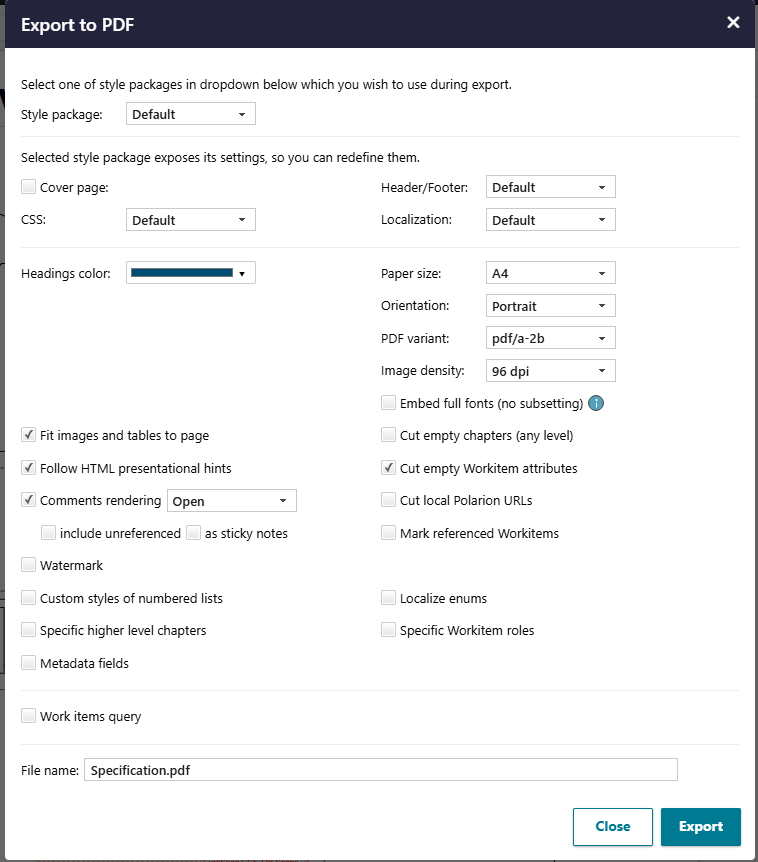
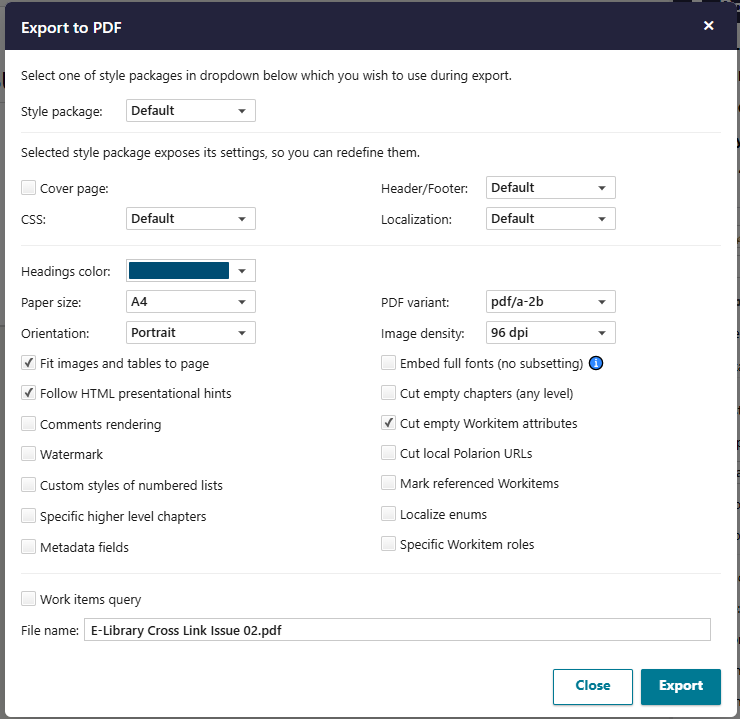
chore: style packages page layout improvements

diff --git a/ui/src/pages/StylePackages.tsx b/ui/src/pages/StylePackages.tsx
@@ -599,18 +599,22 @@ export default function StylePackages() {
           </div>
         )}
 
-        {/* How the page itself is printed. */}
+        {/* How the page is printed, what the renderer does with the content and the switches carrying a
+            value of their own: one container with two continuous columns, not three stacked ones. A flex
+            row is as tall as its taller column, so while these were three containers a short column could
+            never be filled from the block below it - "Headings color" alone on the left against five rows
+            on the right left a four-row hole under it. The colour picker now takes a line of its own above
+            the columns, which is what lets the four dropdowns line up as a block. Same arrangement, and
+            the same reasoning, as the export dialog: see ui/src/popup/ExportPopupModal.tsx. */}
         <div className="flex-container section">
-          <div className="flex-column">
-            <div className="input-group">
-              <label htmlFor="headers-color">Headings color:</label>
-              <input
-                id="headers-color"
-                type="color"
-                value={form.headersColor}
-                onChange={(e) => patch({ headersColor: e.target.value })}
-              />
-            </div>
+          <div className="input-group full-row">
+            <label htmlFor="headers-color">Headings color:</label>
+            <input
+              id="headers-color"
+              type="color"
+              value={form.headersColor}
+              onChange={(e) => patch({ headersColor: e.target.value })}
+            />
           </div>
           <div className="flex-column">
             <div className="input-group">
@@ -631,44 +635,6 @@ export default function StylePackages() {
                 onChange={(value) => patch({ orientation: value })}
               />
             </div>
-            <div className="input-group">
-              <label htmlFor="pdf-variant-select">PDF Variant:</label>
-              <SearchableSelect
-                id="pdf-variant-select"
-                options={PDF_VARIANTS}
-                value={form.pdfVariant}
-                onChange={(value) => patch({ pdfVariant: value })}
-              />
-            </div>
-            <div className="input-group">
-              <label htmlFor="image-density-select">Image density:</label>
-              <SearchableSelect
-                id="image-density-select"
-                options={IMAGE_DENSITIES}
-                value={form.imageDensity}
-                onChange={(value) => patch({ imageDensity: value })}
-              />
-            </div>
-            {/* `flex-centered` for the same reason the weight and query rows have it: it is what centers
-                the info icon against the text next to it. */}
-            <div className="checkbox input-group flex-centered">
-              <label htmlFor="full-fonts">
-                <input
-                  id="full-fonts"
-                  type="checkbox"
-                  checked={form.fullFonts}
-                  onChange={(e) => patch({ fullFonts: e.target.checked })}
-                />
-                Embed full fonts (no subsetting)
-              </label>
-              <span className="more-info" title={FULL_FONTS_HELP} />
-            </div>
-          </div>
-        </div>
-
-        {/* What the renderer does with the content. */}
-        <div className="flex-container">
-          <div className="flex-column">
             <div className="checkbox input-group">
               <label htmlFor="fit-to-page">
                 <input
@@ -746,58 +712,7 @@ export default function StylePackages() {
                 Watermark
               </label>
             </div>
-          </div>
-          <div className="flex-column">
-            <div className="checkbox input-group">
-              <label htmlFor="cut-empty-chapters">
-                <input
-                  id="cut-empty-chapters"
-                  type="checkbox"
-                  checked={form.cutEmptyChapters}
-                  onChange={(e) => patch({ cutEmptyChapters: e.target.checked })}
-                />
-                Cut empty chapters (any level)
-              </label>
-            </div>
-            <div className="checkbox input-group">
-              <label htmlFor="cut-empty-wi-attributes">
-                <input
-                  id="cut-empty-wi-attributes"
-                  type="checkbox"
-                  checked={form.cutEmptyWorkitemAttributes}
-                  onChange={(e) => patch({ cutEmptyWorkitemAttributes: e.target.checked })}
-                />
-                Cut empty Workitem attributes
-              </label>
-            </div>
-            <div className="checkbox input-group">
-              <label htmlFor="cut-urls">
-                <input
-                  id="cut-urls"
-                  type="checkbox"
-                  checked={form.cutLocalURLs}
-                  onChange={(e) => patch({ cutLocalURLs: e.target.checked })}
-                />
-                Cut local Polarion URLs
-              </label>
-            </div>
-            <div className="checkbox input-group">
-              <label htmlFor="mark-referenced-workitems">
-                <input
-                  id="mark-referenced-workitems"
-                  type="checkbox"
-                  checked={form.markReferencedWorkitems}
-                  onChange={(e) => patch({ markReferencedWorkitems: e.target.checked })}
-                />
-                Mark referenced Workitems
-              </label>
-            </div>
-          </div>
-        </div>
-
-        {/* Switches that carry a value of their own. */}
-        <div className="flex-container">
-          <div className="flex-column">
+            {/* Switches that carry a value of their own. */}
             <div className="checkbox input-group with-value">
               <label htmlFor="custom-list-styles">
                 <input
@@ -859,7 +774,9 @@ export default function StylePackages() {
               />
             </div>
             <div className="input-group with-value">
-              <label htmlFor="language-custom-field">Document Language custom field</label>
+              <label htmlFor="language-custom-field" className="nowrap">
+                Document Language custom field
+              </label>
               <span className="more-info" title={LANGUAGE_CUSTOM_FIELD_HELP} />
               <input
                 id="language-custom-field"
@@ -872,6 +789,82 @@ export default function StylePackages() {
             </div>
           </div>
           <div className="flex-column">
+            <div className="input-group">
+              <label htmlFor="pdf-variant-select">PDF Variant:</label>
+              <SearchableSelect
+                id="pdf-variant-select"
+                options={PDF_VARIANTS}
+                value={form.pdfVariant}
+                onChange={(value) => patch({ pdfVariant: value })}
+              />
+            </div>
+            <div className="input-group">
+              <label htmlFor="image-density-select">Image density:</label>
+              <SearchableSelect
+                id="image-density-select"
+                options={IMAGE_DENSITIES}
+                value={form.imageDensity}
+                onChange={(value) => patch({ imageDensity: value })}
+              />
+            </div>
+            {/* `flex-centered` for the same reason the weight and query rows have it: it is what centers
+                the info icon against the text next to it. */}
+            <div className="checkbox input-group flex-centered">
+              <label htmlFor="full-fonts">
+                <input
+                  id="full-fonts"
+                  type="checkbox"
+                  checked={form.fullFonts}
+                  onChange={(e) => patch({ fullFonts: e.target.checked })}
+                />
+                Embed full fonts (no subsetting)
+              </label>
+              <span className="more-info" title={FULL_FONTS_HELP} />
+            </div>
+            <div className="checkbox input-group">
+              <label htmlFor="cut-empty-chapters">
+                <input
+                  id="cut-empty-chapters"
+                  type="checkbox"
+                  checked={form.cutEmptyChapters}
+                  onChange={(e) => patch({ cutEmptyChapters: e.target.checked })}
+                />
+                Cut empty chapters (any level)
+              </label>
+            </div>
+            <div className="checkbox input-group">
+              <label htmlFor="cut-empty-wi-attributes">
+                <input
+                  id="cut-empty-wi-attributes"
+                  type="checkbox"
+                  checked={form.cutEmptyWorkitemAttributes}
+                  onChange={(e) => patch({ cutEmptyWorkitemAttributes: e.target.checked })}
+                />
+                Cut empty Workitem attributes
+              </label>
+            </div>
+            <div className="checkbox input-group">
+              <label htmlFor="cut-urls">
+                <input
+                  id="cut-urls"
+                  type="checkbox"
+                  checked={form.cutLocalURLs}
+                  onChange={(e) => patch({ cutLocalURLs: e.target.checked })}
+                />
+                Cut local Polarion URLs
+              </label>
+            </div>
+            <div className="checkbox input-group">
+              <label htmlFor="mark-referenced-workitems">
+                <input
+                  id="mark-referenced-workitems"
+                  type="checkbox"
+                  checked={form.markReferencedWorkitems}
+                  onChange={(e) => patch({ markReferencedWorkitems: e.target.checked })}
+                />
+                Mark referenced Workitems
+              </label>
+            </div>
             <div className="checkbox input-group">
               <label htmlFor="localization">
                 <input

diff --git a/ui/src/App.css b/ui/src/App.css
@@ -291,9 +291,13 @@
   flex-wrap: wrap;
 }
 
+/* Equal air on both sides of the rule: `margin-top` above it, `padding-top` below it, the same 15px.
+   They used to be 20 and 15, which read as 30 above against 15 below, because the bottom row of the
+   block above still added its own 10px `margin-bottom` on top of the margin. That trailing margin is
+   dropped just below, so what is left here is the whole gap and the two numbers can simply match. */
 .style-packages-page .flex-container.section {
   border-top: 1px solid #ccc;
-  margin-top: 20px;
+  margin-top: 15px;
   padding-top: 15px;
 }
 
@@ -305,10 +309,34 @@
   flex-grow: 1;
 }
 
+/* A row taking a line of its own above the two columns, so both columns start level below it. The
+   headings colour picker uses it: it is the odd one out among the page settings, and leaving it in the
+   left column pushed "PDF Variant" a row higher than "Paper Size", so the four dropdowns did not line up
+   as a block. The export dialog has the same rule for the same row - see popup/export-popup.css. */
+.style-packages-page .input-group.full-row {
+  width: 100%;
+}
+
 /* The three rules the JSP page inherited from generic's configurations.css: 120px labels are what line
    the controls of the two columns up with each other. Not in RSP's bundled CSS, so they live here. */
 .style-packages-page .input-group {
   margin-bottom: 10px;
+}
+
+/* The row spacing is between rows, so the last row of a column does not carry it. Without this, the
+   bottom of every block is 10px taller than it looks and that padding lands above the next section's
+   rule, which is what made the gap above a rule twice the gap below it. */
+.style-packages-page .flex-column > .input-group:last-child,
+.style-packages-page .flex-grow > .input-group:last-child {
+  margin-bottom: 0;
+}
+
+/* Two blocks with no rule between them are still two blocks: they get the same 10px of air that
+   separates the rows inside them. This used to come from the trailing row margin dropped above, which
+   was why removing that margin closed the gap between "Expose style package settings" and "Cover page"
+   entirely. Stated on the block that needs it instead of left to a margin nobody could see. */
+.style-packages-page .flex-container + .flex-container:not(.section) {
+  margin-top: 10px;
 }
 
 .style-packages-page .input-group label {
@@ -327,6 +355,17 @@
 /* A label carrying a checkbox is as wide as its text, not a 120px column head. */
 .style-packages-page .checkbox.input-group label {
   width: auto;
+}
+
+/* A label that is a sentence rather than a column head, so the 120px above would wrap it. The Document
+   Language custom field row needs it: the rows around it in that column carry checkbox labels, which are
+   already `width: auto`, and it is the only one of them without a checkbox. */
+.style-packages-page .input-group label.nowrap {
+  width: auto;
+  white-space: nowrap;
+  /* The same 4px the flex-centered rows put between a label and its info icon. Without it the icon
+     touches the last word, because that gap came from the 120px column width being wider than the text. */
+  margin-right: 4px;
 }
 
 /* Except these two, which the JSP page held at the column width so the dropdown behind them lines up
